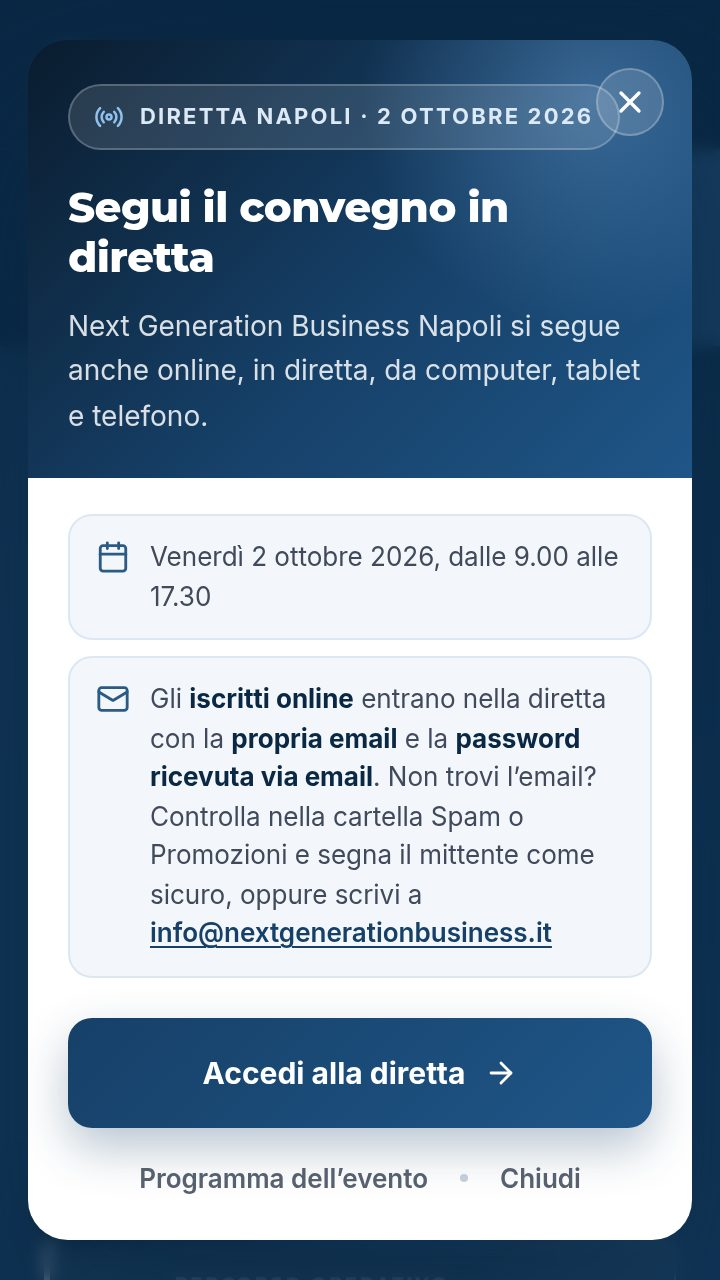
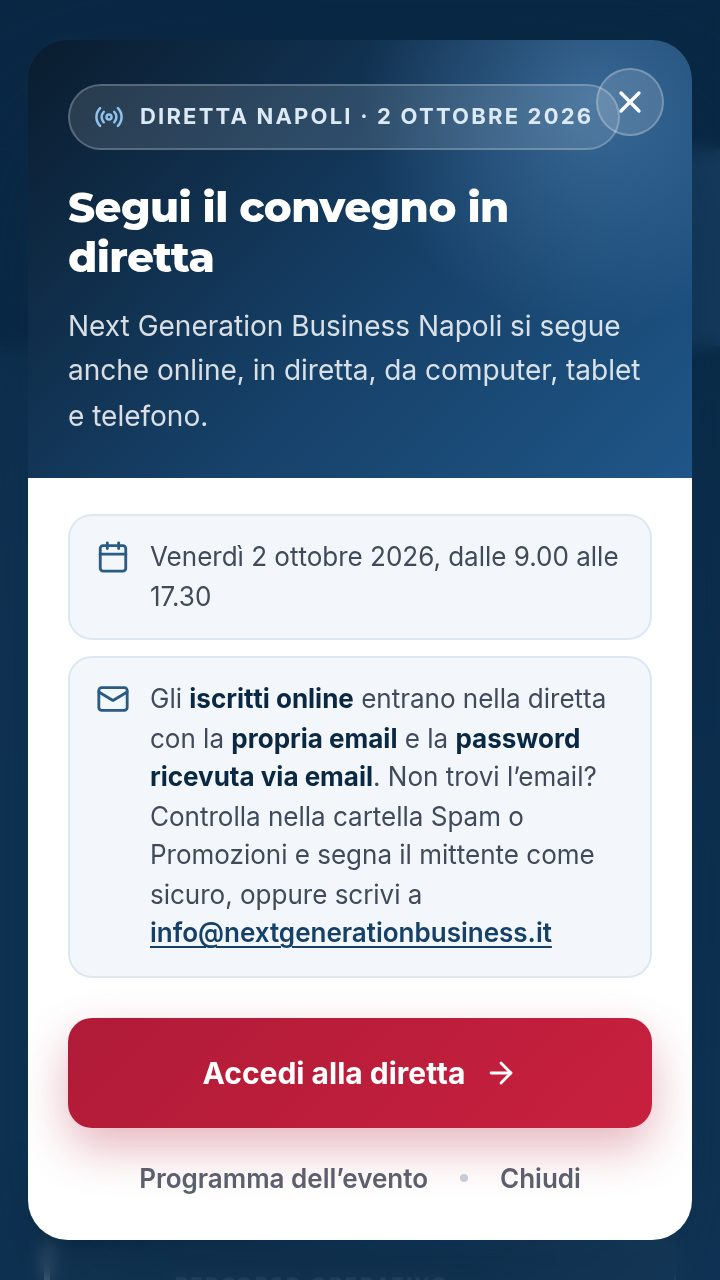
Popup della diretta in home: il pulsante «Accedi alla diretta» è rosso
Lo stesso rosso dell'indicatore IN DIRETTA (sfumatura #B01B37-#C8203F,
bianco sopra 5,6:1), con ombra e contorno del focus intonati. Nuova
versione del file in index.html e le quattro immagini del popup in
diretta/screenshot rifatte. sito.prova.js: 319 verdi, 0 rossi.

Claude-Session: https://claude.ai/code/session_01Vh8hVaybXHL1X15eBRcjKg

Changed region(s): [[0.0917, 0.7812, 0.9167, 0.9062]]

diff --git a/assets/diretta-popup.js b/assets/diretta-popup.js
@@ -184,19 +184,20 @@
     + '#dirPromo .dirp-presenza a:hover{color:#0A2844;}'
     + '#dirPromo .dirp-presenza a:focus-visible{outline:2px solid #164068;outline-offset:2px;border-radius:3px;}'
 
-    /* azioni */
+    /* azioni. Il pulsante della diretta e' rosso, lo stesso rosso di IN DIRETTA:
+       bianco su #B01B37-#C8203F sta sopra 5,6:1, leggibile anche a 15px */
     + '#dirPromo .dirp-actions{display:flex;flex-direction:column;gap:6px;}'
     + '#dirPromo .dirp-cta{position:relative;overflow:hidden;display:inline-flex;align-items:center;'
-    + 'justify-content:center;gap:9px;background:linear-gradient(135deg,#164068,#1F5688)!important;'
+    + 'justify-content:center;gap:9px;background:linear-gradient(135deg,#B01B37,#C8203F)!important;'
     + 'color:#fff!important;text-decoration:none!important;font-weight:700;font-size:15px;'
     + 'padding:15px 18px;border-radius:12px;border:0;cursor:pointer;'
-    + 'box-shadow:0 10px 24px rgba(22,64,104,.30);'
+    + 'box-shadow:0 10px 24px rgba(176,27,55,.32);'
     + 'transition:transform .18s ease,box-shadow .18s ease;}'
     + '#dirPromo .dirp-cta::after{content:"";position:absolute;top:0;left:-60%;width:40%;height:100%;'
     + 'background:linear-gradient(120deg,rgba(255,255,255,0),rgba(255,255,255,.34),rgba(255,255,255,0));'
     + 'transform:skewX(-18deg);animation:dirpShine 3.4s ease-in-out 1.2s infinite;}'
     + '@keyframes dirpShine{0%{left:-60%;}55%{left:130%;}100%{left:130%;}}'
-    + '#dirPromo .dirp-cta:hover{transform:translateY(-2px);box-shadow:0 14px 30px rgba(22,64,104,.40);}'
+    + '#dirPromo .dirp-cta:hover{transform:translateY(-2px);box-shadow:0 14px 30px rgba(176,27,55,.42);}'
     + '#dirPromo .dirp-cta svg{position:relative;z-index:1;width:17px;height:17px;}'
     + '#dirPromo .dirp-cta span{position:relative;z-index:1;}'
     + '#dirPromo .dirp-row{display:flex;align-items:center;justify-content:center;gap:6px;flex-wrap:wrap;}'
@@ -218,7 +219,7 @@
     + '#dirPromo .dirp-close:focus-visible,#dirPromo .dirp-ghost:focus-visible,'
     + '#dirPromo .dirp-dismiss button:focus-visible{outline:2px solid #164068;outline-offset:2px;border-radius:8px;}'
     + '#dirPromo .dirp-close:focus-visible{outline-color:#fff;}'
-    + '#dirPromo .dirp-cta:focus-visible{outline:2px solid #fff;outline-offset:-4px;box-shadow:0 0 0 3px #2A5A85;}'
+    + '#dirPromo .dirp-cta:focus-visible{outline:2px solid #fff;outline-offset:-4px;box-shadow:0 0 0 3px #7A1026;}'
     + '@media (max-width:520px){#dirPromo{padding:14px;}#dirPromo .dirp-head{padding:22px 20px 20px;}'
     + '#dirPromo .dirp-body{padding:18px 20px 20px;}#dirPromo h2{font-size:21px;padding-right:30px;}'
     + '#dirPromo .dirp-info li{font-size:13px;}}'

diff --git a/index.html b/index.html
@@ -1330,7 +1330,7 @@
     <script src="assets/event-banner.js" defer></script>
     <!-- data-pillola: la pillola fissa "Diretta Napoli" in basso a sinistra -->
     <script src="/assets/diretta-stato.js?v=20260927b" data-pillola defer></script>
-    <script src="/assets/diretta-popup.js?v=20260927c" defer></script>
+    <script src="/assets/diretta-popup.js?v=20260929a" defer></script>
     <script src="/assets/bando-tipo-popup.js?v=20260924" defer></script>
     <script src="/assets/fcd-popup.js?v=20260924" defer></script>
 </body>
